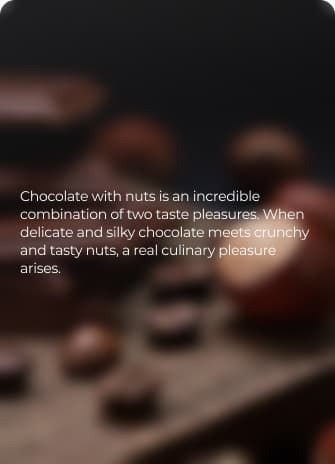
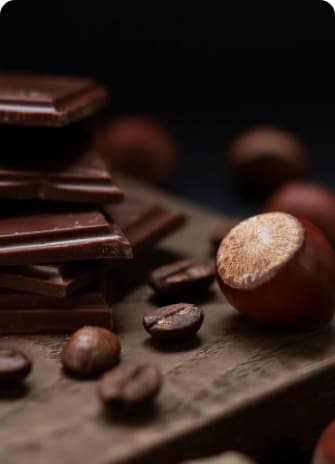
Рефакторинг секции betsellers настройка изображений к ней.

diff --git a/index.html b/index.html
@@ -16,7 +16,6 @@
       href="https://cdn.jsdelivr.net/npm/modern-normalize@2.0.0/modern-normalize.min.css"
     />
     <link rel="stylesheet" href="./css/index.css" />
-    <link rel="stylesheet" href="./css/styles.css" />
   </head>
 
   <body>
@@ -502,8 +501,8 @@
         </div>
       </section>
 
-      <!-- BESTSELLERS SECTION -->
-      <!-- <section class="bestsellers section">
+      <!-- ================= BESTSELLERS SECTION ================== -->
+      <section class="bestsellers section">
         <div class="container">
           <h2 class="section-title">
             <span class="accent-color">Top</span> sellers
@@ -514,10 +513,18 @@
                 <div class="bestsellers-list-img-wrapper">
                   <img
                     class="bestsellers-list-img"
-                    src="./images/bestsellers/chocolate-with-nuts.jpg"
+                    srcset="
+                      ./images/bestsellers/chocolate-with-nuts-desktop@1x.jpg 368w,
+                      ./images/bestsellers/chocolate-with-nuts-desktop@2x.jpg 736w,
+                      ./images/bestsellers/chocolate-with-nuts-tablet@1x.jpg  344w,
+                      ./images/bestsellers/chocolate-with-nuts-tablet@2x.jpg  688w,
+                      ./images/bestsellers/chocolate-with-nuts-mobile@1x.jpg  335w,
+                      ./images/bestsellers/chocolate-with-nuts-mobile@2x.jpg  670w
+                    "
+                    sizes="(min-width:1168px) 368px, (min-width:768px) 344px,
+                   (max-width:767px) 335px"
+                    src="./images/bestsellers/chocolate-with-nuts-mobile@1x.jpg"
                     alt="chocolate with nuts"
-                    width="368"
-                    height="464"
                   />
                   <p class="overlay">
                     Chocolate with fruit is an unbeatable combination of two of
@@ -534,10 +541,16 @@
                 <div class="bestsellers-list-img-wrapper">
                   <img
                     class="bestsellers-list-img"
-                    src="./images/bestsellers/chocolate-with-fruits.jpg"
+                    srcset="
+                      ./images/bestsellers/chocolate-with-fruits-desktop@1x.jpg 368w,
+                      ./images/bestsellers/chocolate-with-fruits-desktop@2x.jpg 736w,
+                      ./images/bestsellers/chocolate-with-fruits-tablet@1x.jpg  344w,
+                      ./images/bestsellers/chocolate-with-fruits-tablet@2x.jpg  688w
+                    "
+                    sizes="(min-width:1168px) 368px, (min-width:768px) 344px,
+                   (max-width:767px) 335px"
+                    src="./images/bestsellers/chocolate-with-fruits-tablet@1x.jpg"
                     alt="chocolate with fruits"
-                    width="368"
-                    height="464"
                   />
                   <p class="overlay">
                     Chocolate with fruit is an unbeatable combination of two of
@@ -555,10 +568,14 @@
                 <div class="bestsellers-list-img-wrapper">
                   <img
                     class="bestsellers-list-img"
-                    src="./images/bestsellers/dark-chocolate.jpg"
+                    srcset="
+                      ./images/bestsellers/dark-chocolate-desktop@1x.jpg 368w,
+                      ./images/bestsellers/dark-chocolate-desktop@2x.jpg 736w
+                    "
+                    sizes="(min-width:1168px) 368px, (min-width:768px) 344px,
+                   (max-width:767px) 335px"
+                    src="./images/bestsellers/dark-chocolate-desktop@1x.jpg"
                     alt="dark chocolate"
-                    width="368"
-                    height="464"
                   />
                   <p class="overlay">
                     Chocolate with fruit is an unbeatable combination of two of
@@ -573,7 +590,7 @@
             </li>
           </ul>
         </div>
-      </section> -->
+      </section>
 
       <!-- ======================= REVIEW SECTION ====================== -->
       <section class="reviews section" id="reviews">

diff --git a/css/layout/section-bestsellers.css b/css/layout/section-bestsellers.css
@@ -4,6 +4,11 @@
   column-gap: 16px;
 }
 
+.bestsellers-list-img {
+  width: 335px;
+  height: 464px;
+}
+
 .bestsellers-list-item {
   flex-basis: 100%;
 }
@@ -23,10 +28,10 @@
   font-weight: 400;
   line-height: 1.29;
   letter-spacing: -0.02em;
-  padding-top: 178px;
-  padding-left: 40px;
-  padding-right: 40px;
-  padding-bottom: 40px;
+  padding-top: 187px;
+  padding-left: 20px;
+  padding-right: 20px;
+  padding-bottom: 20px;
   border-radius: 15px 15px 0px 0px;
   background-image: linear-gradient(
     161deg,
@@ -52,8 +57,8 @@
   letter-spacing: -0.02em;
   text-transform: uppercase;
   text-align: center;
-  padding-top: 28px;
-  padding-bottom: 28px;
+  padding-top: 24px;
+  padding-bottom: 24px;
   border-radius: 0px 0px 15px 15px;
   border-right: 1px solid rgba(17, 17, 17, 0.1);
   border-bottom: 1px solid rgba(17, 17, 17, 0.1);
@@ -62,13 +67,41 @@
   color: var(--primary-color);
 }
 
+.bestsellers-list-item:not(:first-child) {
+  display: none;
+}
+
 @media screen and (min-width: 768px) {
+  .bestsellers-list-item:nth-child(2) {
+    display: block;
+  }
+  .bestsellers-list-img {
+    width: 344px;
+  }
   .bestsellers-list-item {
     flex-basis: calc((100% - 16px) / 2);
+  }
+
+  .overlay {
+    padding-top: 178px;
+    padding-left: 40px;
+    padding-right: 40px;
+    padding-bottom: 40px;
+  }
+
+  .bestsellers-list-caption {
+    padding-top: 28px;
+    padding-bottom: 28px;
   }
 }
 
 @media screen and (min-width: 1168px) {
+  .bestsellers-list-item:nth-child(n + 3) {
+    display: block;
+  }
+  .bestsellers-list-img {
+    width: 368px;
+  }
   .bestsellers-list-item {
     flex-basis: calc((100% - 32px) / 3);
   }

diff --git a/css/layout/section-reviews.css b/css/layout/section-reviews.css
@@ -120,8 +120,5 @@
   .reviews-list {
     column-gap: 28px;
   }
-
-  .reviews-list-item:last-child {
-    display: block;
-  }
+  
 }
